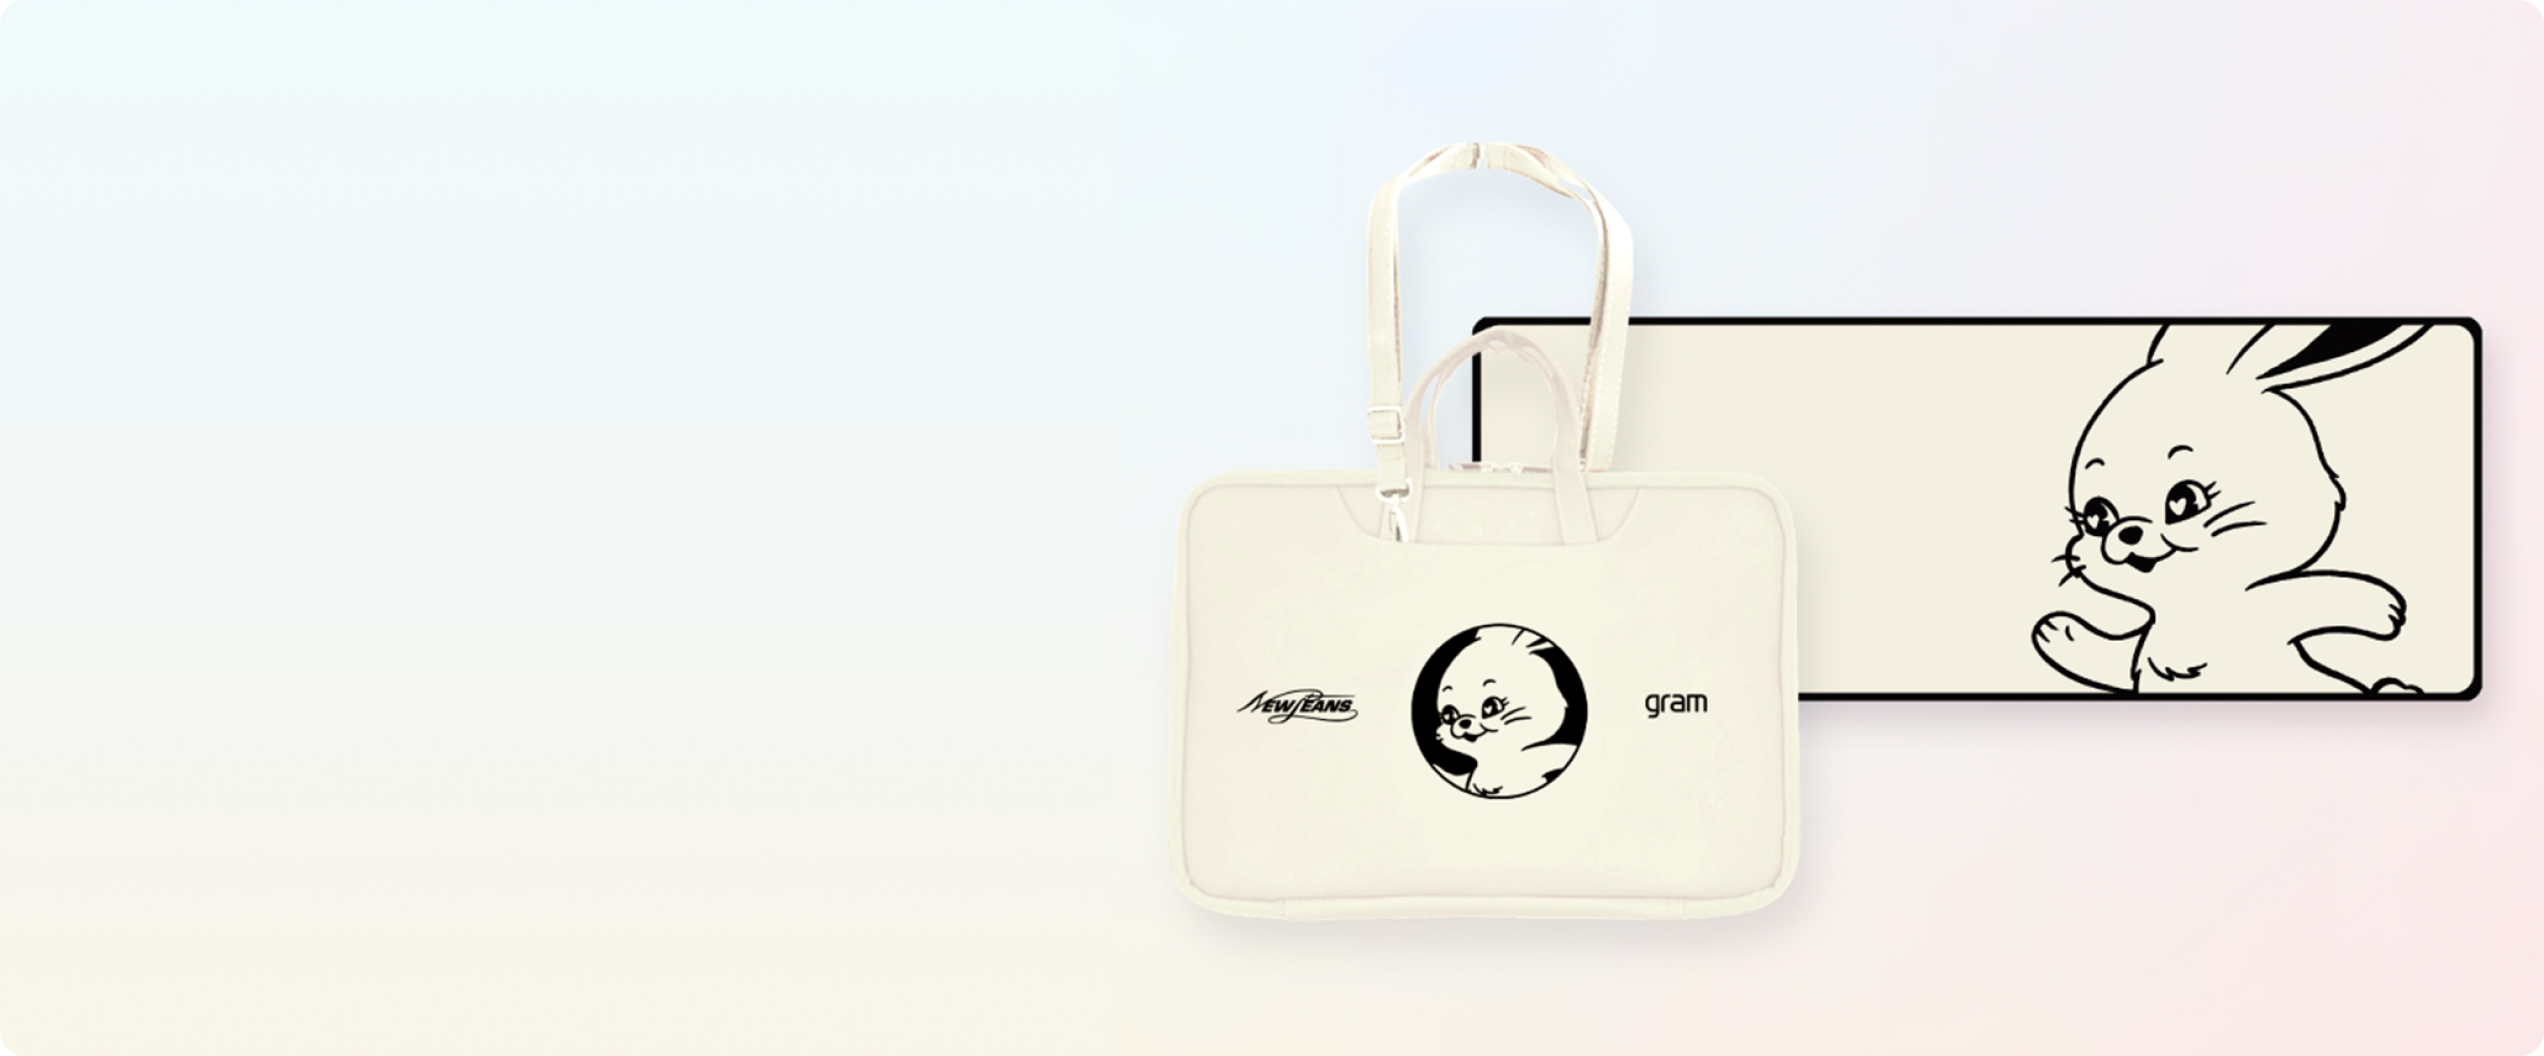
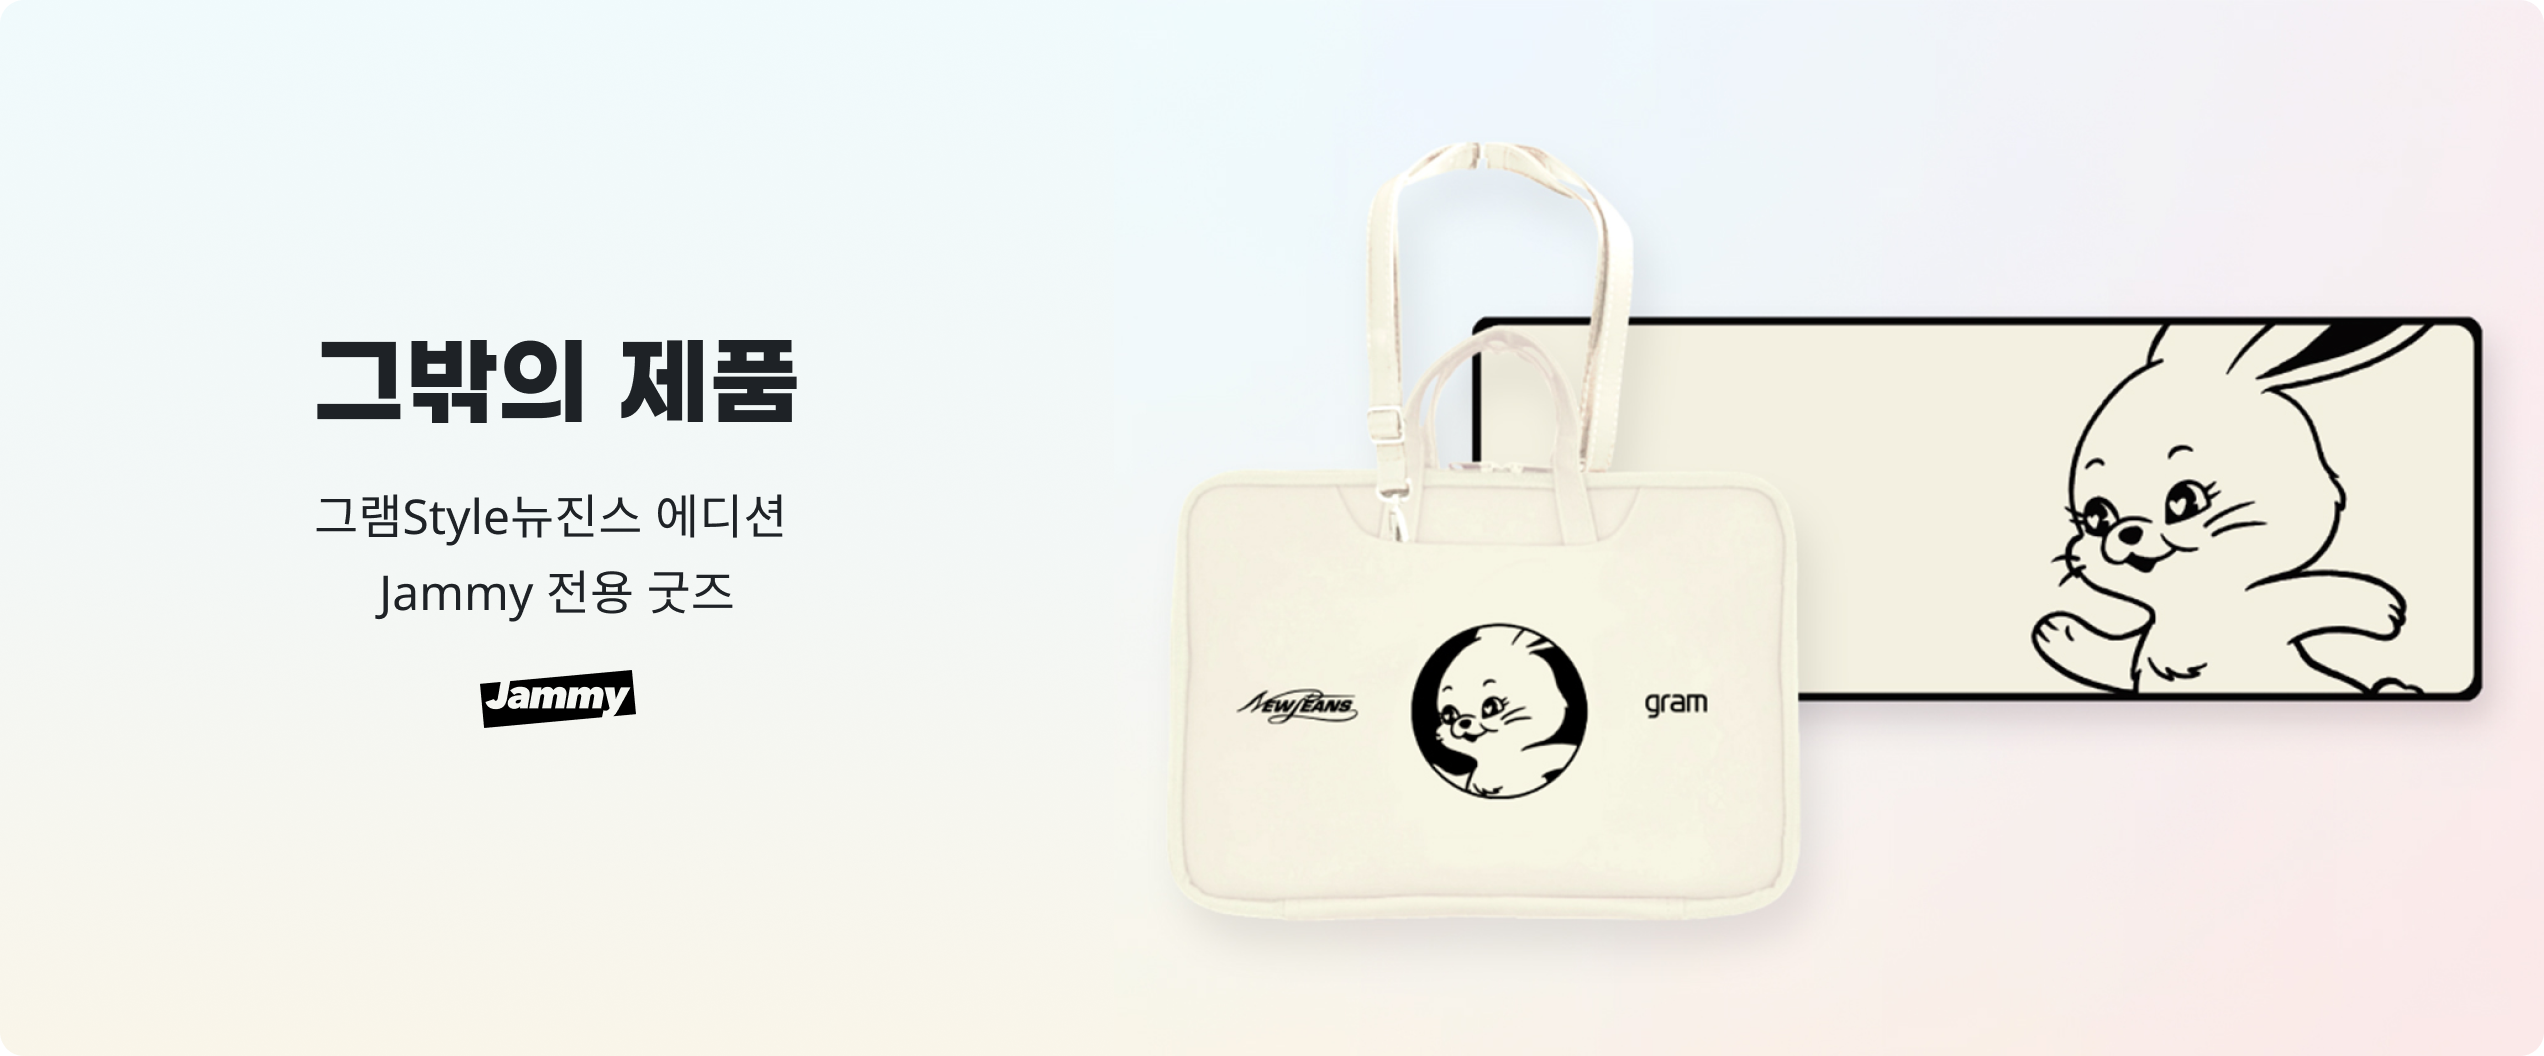
[FIX] product section01,02 웹표준 준수 확인, 이미지 변경

Changed region(s): [[0.1242, 0.3125, 0.3105, 0.4062], [0.1242, 0.4688, 0.3105, 0.5938], [0.1863, 0.625, 0.2484, 0.6875]]

diff --git a/css/product.css b/css/product.css
@@ -1,85 +1,77 @@
-.cs_desc{padding: calc(var(--base_unit_d) * 1.5) 0 calc(var(--base_unit_d) * 2) 0;
+.cs_desc{
+  padding: calc(var(--base_unit_d) * 1.5) 0 calc(var(--base_unit_d) * 2) 0;
+  font-size: calc(var(--body_text_unit) * 1.25);
 }
-.product_section02>a>img{width: 100%;}
-.product_section02 a{position: relative;}
-.product_section02 a div{
-  text-decoration: none;
-  color: var(--dark);
-  position: absolute;
-  height: 100%;
-  width: 30%;
-  top:20% ;right: 0;bottom: 0;left: 75px;
-  justify-content: center;
-  align-items: center;
+.big_pd {
+  padding: calc(var(--base_unit_d) * 5) 0;
 }
-.product_section02 a div span{
-  display: block;
-}
-
-/* 추천제품 섹션 */
-
+/*product_section01*/
 .product_section01 div h2 {
   text-align: center;
   line-height: 150%;
 }
-
-.card {
-  width: 300px;
+.card_list {
+  padding-left: 0;
+}
+.product_section01 .card_list .card {
+  width: 30%;
   height: 768px;
-  box-shadow: 0px 5px 18px -7px rgba(228, 228, 228, 0.4);
+  box-shadow: 0px 5px 18px -7px rgba(228, 228, 228, 1);
   border-radius: var(--border_lg);
   background: #fff;
+  border-style: none;
+}
+.product_section01 .card_list .card+.card{
   margin: 0 12px 38px 12px;
 }
-
-.card:first-child {
+.product_section01 .card_list .card:first-child{
+  margin-left: 12px;
+}
+.product_section01 .card_list .card:nth-child(2){
+  margin-left: 24px;
+}
+.product_section01 .card:first-child {
   margin-left: 0;
 }
-
-.card:last-child {
+.product_section01 .card:last-child {
   margin-right: 0;
 }
-
-.card > div {
+.product_section01 .card p{
+  margin-bottom: 0;
+}
+.product_section01 .card > div {
   display: flex;
   flex-direction: column;
   align-items: center;
 }
-
-.card_img_wrap {
+.product_section01 .card_img_wrap {
   height: 312px;
   border-radius: 12px 12px 0px 0px;
 }
-
-.card_img_wrap img {
+.product_section01 .card_img_wrap img {
   width: 290px;
   height: 290px;
   border-radius: 12px 12px 0px 0px;
   margin: 12px 0 12px 0;
 }
-
-.card_text {
+.product_section01 .card_text {
   text-align: center;
 }
-
-.card_text p {
+.product_section01 .card_text p {
   font-weight: 400;
   font-size: 1.6rem;
 }
-
-.product_num {
+.product_section01 .product_num {
   color: var(--dark, #1e2226);
   line-height: 1.4;
   margin-top: 38px;
 }
-
-.product_title {
+.product_section01 .product_title {
   color: var(--dark, #1e2226);
   font-size: var(--bd_size_04);
   font-weight: 700;
   padding: 24px 0 36px 0;
 }
-
 .product_desc1,.product_desc2,.product_desc3
 {
   color: var(--gray-03, #58606a);
@@ -87,72 +79,89 @@
   line-height: 1.4;
   padding: 0 0 0 0;
 }
-
-.review {
+.product_section01 .review {
   padding: 24px 0 36px 0;
-  color: var(--gray-03, #58606a);
+  color: #F8D849;
   line-height: 1.4;
 }
-
-.review span {
+.product_section01 .review span {
   display: inline-block;
+  color: var(--gray-03, #58606a);
   transform: translateY(-1.5px);
   margin-left: 5px;
 }
-
-.product_cost {
+.product_section01 .product_cost {
   color: var(--blue-02, #3182f6);
   font-size: var(--bd_size_04);
   font-weight: 700;
   margin-bottom: 36px;
 }
-
-.card .add_btn {
+.product_section01 .card .add_btn {
   width: 192px;
   height: 60px;
 }
-
-.add_btn {
+.product_section01 .add_btn {
   cursor: pointer;
 }
+/*product_section02*/
+.product_section02{
+  padding-top: 0;
+}
+.product_section02>a>img{
+  width:100%; 
+}
+.product_section02>a>img:nth-child(2),
+.product_section02>a>img:nth-child(3){
+  display: none;
+}
 @media (max-width: 1270px) {
-  .color_fixed_img {
+  .product_section01 .card_list .card {
+    width: 45%;}
+  .product_section01 .color_fixed_img {
     height: 100vh;
     background-position: 50% 50%;
     background-size: cover;
   }
 }
-
 @media (max-width: 768px) {
-  .color_intro h2,
-  .color_text h2 {
+  .product_section01 .card_list .card {
+    width: 45%;}
+  .product_section01 .color_intro h2,
+  .product_section01 .color_text h2 {
     font-size: 3.6rem;
   }
-
-  .color_fixed_img {
+  .product_section01 .color_fixed_img {
     height: 100vh;
     background-position: 50% 50%;
     background-size: cover;
   }
-  .color_fixed .color_fixed_text h2,
-  .color_fixed .color_fixed_text div span {
+  .product_section01 .color_fixed .color_fixed_text h2,
+  .product_section01 .color_fixed .color_fixed_text div span {
     font-size: 3.6rem;
     line-height: 150%;
   }
-
-  .big_img {
+  .product_section01 .big_img {
     flex-basis: 50%;
   }
-  .sm_img {
+  .product_section01 .sm_img {
     flex-basis: 50%;
   }
-  .big_img img {
+  .product_section01 .big_img img {
     width: 100%;
   }
+  .product_section02>a>img:nth-child(2){display: block;}
+  .product_section02>a>img:nth-child(1),
+.product_section02>a>img:nth-child(3){
+  display: none;
 }
-
+}
 @media (max-width: 480px) {
-  .color_text {
+  .product_section01 .card_list .card:first-child{
+    margin-bottom: 38px;
+  }
+  .product_section01 .card_list .card {
+    width: 90%;}
+  .product_section01 .color_text {
     flex-direction: column;
     align-items: center;
   }
@@ -160,35 +169,37 @@
     font-size: 4.8rem;
     margin-left: 0;
   }
-
-  .color_item {
+  .product_section01 .color_item {
     display: flex;
     flex-direction: column;
   }
-  .sm_img {
+  .product_section01 .sm_img {
     display: flex;
     flex-direction: row;
     justify-content: center;
   }
-  .big_img {
+  .product_section01 .big_img {
     display: flex;
     justify-content: center;
   }
-  .color_item .big_img img {
+  .product_section01 .color_item .big_img img {
     width: 60%;
   }
-  .color_item .sm_img img {
+  .product_section01 .color_item .sm_img img {
     width: 40%;
   }
-  .color_fixed .color_fixed_text h2,
-  .color_fixed .color_fixed_text div span {
+  .product_section01 .color_fixed .color_fixed_text h2,
+  .product_section01 .color_fixed .color_fixed_text div span {
     font-size: 3.6rem;
     line-height: 150%;
   }
-
-
-  .product_cost,
-  .product_title {
+  .product_section01 .product_cost,
+  .product_section01 .product_title {
     font-size: 2.4rem;
   }
+  .product_section02>a>img:nth-child(3){display: block;}
+  .product_section02>a>img:nth-child(1),
+.product_section02>a>img:nth-child(2){
+  display: none;
+}
 }

diff --git a/js/product.js b/js/product.js
@@ -4,12 +4,12 @@ let starSVG = `<svg xmlns="http://www.w3.org/2000/svg" width="16" height="16" vi
 </svg>`;
 let elements = [];
 $.getJSON("/data/product_card.json", function (data) {
-  console.log(data);
+  // console.log(data);
   $.each(data, function (i, item) {
     cardHTML = `<li class='card'>
     <div>
       <div class='card_img_wrap d-flex justify-content-center'>
-     <img src='${item.image}'/>
+      <img src='${item.image}'/>
       </div>
       <div class='card_text'>
         <p class='product_num'>${item.product_num}</p>
@@ -17,7 +17,7 @@ $.getJSON("/data/product_card.json", function (data) {
         <p class='product_desc1'>${item.product_desc1}</p>
         <p class='product_desc2'>${item.product_desc2}</p>
         <p class='product_desc3'>${item.product_desc3}</p>
-        <p class='review'>${starSVG}<span>${item.rating}</span></p>
+        <p class='review'>&starf; <span>${item.rating}</span></p>
         <h3 class='product_cost'>₩ ${item.cost.toLocaleString()}</h3>
         <button class="add_btn">구매하기</button>
       </div>

diff --git a/product.html b/product.html
@@ -136,16 +136,13 @@
         </ul>
       </div>
     </section>
-      <div class="product_section02 container big_pd d-flex flex-column align-items-center">
-        <a href="./jammyis.html">
-          <div class="cs_desc">
-            <h2 class="tt_01">그밖의 제품</h2>
-            <p class="">그램Style뉴진스 에디션 <span>Jammy 전용 굿즈</span></p>
-            <img src="./imgs/product/product_jammy.svg" alt="">
-          </div>
-          <img src="./imgs/product/product_etcBg_D.png" alt="">
-        </a>
-      </div>
+      <section class="product_section02 container big_pd d-flex flex-column align-items-center">
+          <a class="cs_desc" href="./jammyis.html">
+            <img src="./imgs/product/product_etcBg_D.png" alt="">
+            <img src="./imgs/product/product_etcBg_T.png" alt="">
+            <img src="./imgs/product/product_etcBg_P.png" alt="">
+          </a>
+      </section>
     <!-- 이현정 footer 시작 -->
     <footer>
       <div class="container">
